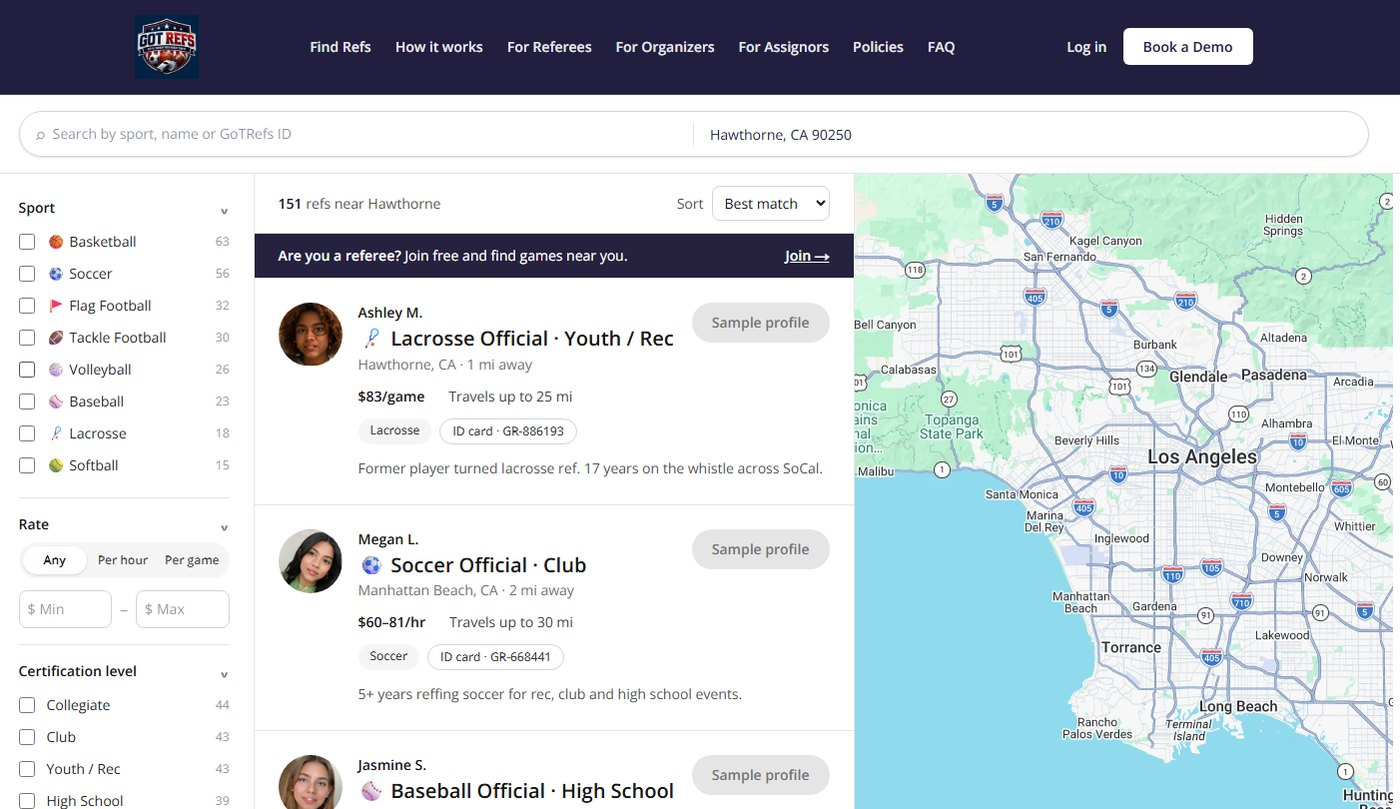
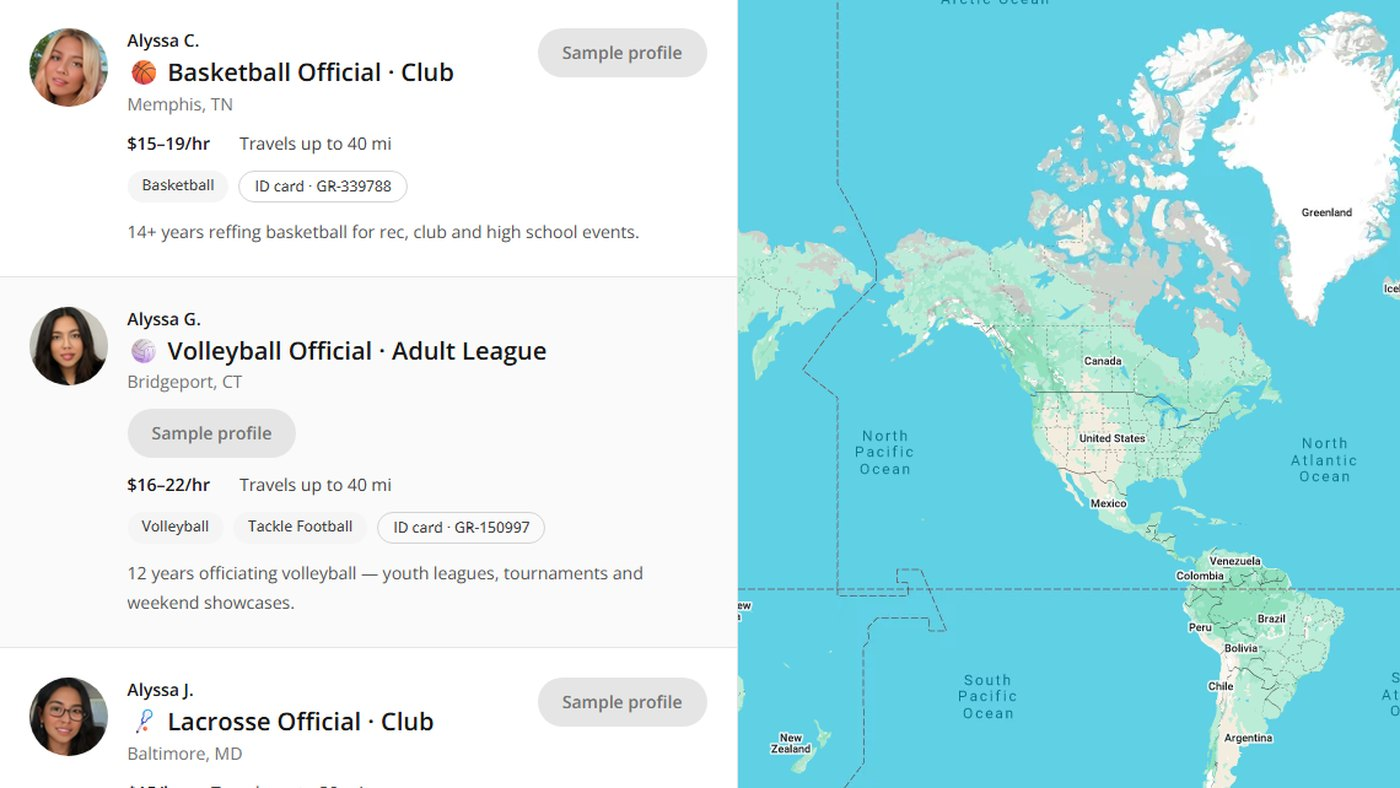
Find Refs map: draw price pins as HTML overlays; new home screenshot
- Pins are now drawn with google.maps.OverlayView (core maps library)
  instead of google.maps.Marker, which still wasn't rendering live
- With no location searched, the map frames the continental US instead
  of fitting Alaska/Hawaii (which zoomed out to the whole hemisphere)
- Home 'Find Refs Now' screenshot updated to the nationwide 5-30 data

Claude-Session: https://claude.ai/code/session_01AtsqxzZ6pvwJ2AtERcyaMA

diff --git a/web/src/components/find-refs/RefFinderMap.tsx b/web/src/components/find-refs/RefFinderMap.tsx
@@ -10,9 +10,76 @@ export type RefMapPin = {
   coords: { lat: number; lng: number };
 };
 
-const DEFAULT_CENTER = { lat: 33.95, lng: -118.25 };
+/** Continental US — the default view when no location is searched. */
+const LOWER_48 = { north: 49.5, south: 24.4, west: -125, east: -66.9 };
 
-/** Airbnb-style price pins for refs on Google Maps. */
+type PinOverlay = google.maps.OverlayView & {
+  setActive: (active: boolean) => void;
+};
+
+/**
+ * Airbnb-style price pills drawn as plain HTML on a Google Maps OverlayView.
+ * Uses only the core "maps" library, so it doesn't depend on google.maps.Marker.
+ */
+function createPinOverlay(
+  pin: RefMapPin,
+  active: boolean,
+  onClick: (id: string) => void
+): PinOverlay {
+  class Pin extends google.maps.OverlayView {
+    private el: HTMLButtonElement | null = null;
+    private isActive = active;
+
+    onAdd() {
+      const el = document.createElement("button");
+      el.type = "button";
+      el.textContent = pin.label;
+      el.title = pin.title;
+      el.setAttribute("aria-label", `${pin.title}, ${pin.label}`);
+      el.style.cssText =
+        "position:absolute;transform:translate(-50%,-50%);padding:4px 9px;border-radius:999px;" +
+        "font:700 12px/1.2 system-ui,sans-serif;white-space:nowrap;cursor:pointer;" +
+        "box-shadow:0 1px 4px rgba(0,0,0,.28);border:1px solid #d4d4d4;transition:transform .12s;";
+      el.addEventListener("click", (event) => {
+        event.stopPropagation();
+        onClick(pin.id);
+      });
+      el.addEventListener("mouseenter", () => (el.style.transform = "translate(-50%,-50%) scale(1.08)"));
+      el.addEventListener("mouseleave", () => (el.style.transform = "translate(-50%,-50%)"));
+      this.el = el;
+      this.paint();
+      this.getPanes()?.overlayMouseTarget.appendChild(el);
+    }
+
+    draw() {
+      const projection = this.getProjection();
+      if (!projection || !this.el) return;
+      const point = projection.fromLatLngToDivPixel(new google.maps.LatLng(pin.coords));
+      if (!point) return;
+      this.el.style.left = `${point.x}px`;
+      this.el.style.top = `${point.y}px`;
+    }
+
+    onRemove() {
+      this.el?.remove();
+      this.el = null;
+    }
+
+    setActive(next: boolean) {
+      this.isActive = next;
+      this.paint();
+    }
+
+    private paint() {
+      if (!this.el) return;
+      this.el.style.background = this.isActive ? "#111827" : "#ffffff";
+      this.el.style.color = this.isActive ? "#ffffff" : "#111827";
+      this.el.style.zIndex = this.isActive ? "1000" : "1";
+    }
+  }
+  return new Pin();
+}
+
 export function RefFinderMap({
   pins,
   selectedId,
@@ -28,10 +95,15 @@ export function RefFinderMap({
 }) {
   const mapElRef = useRef<HTMLDivElement>(null);
   const mapRef = useRef<google.maps.Map | null>(null);
-  const markersRef = useRef<google.maps.Marker[]>([]);
+  const overlaysRef = useRef<Map<string, PinOverlay>>(new Map());
   const fittedKeyRef = useRef<string>("");
+  const onSelectRef = useRef(onSelect);
   const [ready, setReady] = useState(false);
   const [error, setError] = useState<string | null>(null);
+
+  useEffect(() => {
+    onSelectRef.current = onSelect;
+  }, [onSelect]);
 
   useEffect(() => {
     if (!isGoogleMapsConfigured()) return;
@@ -41,13 +113,14 @@ export function RefFinderMap({
         if (cancelled || !mapElRef.current) return;
         if (!mapRef.current) {
           mapRef.current = new google.maps.Map(mapElRef.current, {
-            center: DEFAULT_CENTER,
-            zoom: 9,
+            center: { lat: 39.5, lng: -98.35 },
+            zoom: 4,
             mapTypeControl: false,
             streetViewControl: false,
             fullscreenControl: false,
             clickableIcons: false,
           });
+          mapRef.current.fitBounds(LOWER_48, 0);
         }
         setReady(true);
       })
@@ -57,7 +130,7 @@ export function RefFinderMap({
     };
   }, []);
 
-  // Re-fit only when the set of results or the searched place changes, not on selection.
+  // Re-fit only when the searched place or the result set changes (not on hover/selection).
   useEffect(() => {
     if (!ready || !mapRef.current) return;
     const map = mapRef.current;
@@ -67,44 +140,61 @@ export function RefFinderMap({
     if (center) {
       map.panTo(center);
       map.setZoom(10);
-    } else if (pins.length > 0) {
+      return;
+    }
+    // Without a searched place, frame the lower 48 (Alaska/Hawaii pins stay reachable by panning).
+    const mainland = pins.filter(
+      (p) =>
+        p.coords.lat <= LOWER_48.north &&
+        p.coords.lat >= LOWER_48.south &&
+        p.coords.lng >= LOWER_48.west &&
+        p.coords.lng <= LOWER_48.east
+    );
+    if (mainland.length >= 2) {
       const bounds = new google.maps.LatLngBounds();
-      pins.forEach((p) => bounds.extend(p.coords));
-      map.fitBounds(bounds, 40);
+      mainland.forEach((p) => bounds.extend(p.coords));
+      map.fitBounds(bounds, 32);
+    } else if (pins.length === 1) {
+      map.panTo(pins[0].coords);
+      map.setZoom(10);
+    } else {
+      map.fitBounds(LOWER_48, 0);
     }
   }, [ready, pins, center]);
 
+  // Add/remove pins when results change.
   useEffect(() => {
     if (!ready || !mapRef.current) return;
     const map = mapRef.current;
-    markersRef.current.forEach((m) => m.setMap(null));
-    markersRef.current = pins.map((pin) => {
-      const active = pin.id === selectedId;
-      const marker = new google.maps.Marker({
-        map,
-        position: pin.coords,
-        title: pin.title,
-        zIndex: active ? 1000 : undefined,
-        label: {
-          text: pin.label,
-          color: active ? "#ffffff" : "#111827",
-          fontSize: "12px",
-          fontWeight: "700",
-        },
-        icon: {
-          path: "M -26 -13 L 26 -13 Q 32 -13 32 -7 L 32 7 Q 32 13 26 13 L -26 13 Q -32 13 -32 7 L -32 -7 Q -32 -13 -26 -13 Z",
-          fillColor: active ? "#111827" : "#ffffff",
-          fillOpacity: 1,
-          strokeColor: active ? "#111827" : "#d4d4d4",
-          strokeWeight: 1,
-          scale: 1,
-          labelOrigin: new google.maps.Point(0, 1),
-        },
-      });
-      marker.addListener("click", () => onSelect?.(pin.id));
-      return marker;
-    });
-  }, [ready, pins, selectedId, onSelect]);
+    const overlays = overlaysRef.current;
+    const wanted = new Set(pins.map((p) => p.id));
+    for (const [id, overlay] of overlays) {
+      if (!wanted.has(id)) {
+        overlay.setMap(null);
+        overlays.delete(id);
+      }
+    }
+    for (const pin of pins) {
+      if (overlays.has(pin.id)) continue;
+      const overlay = createPinOverlay(pin, false, (id) => onSelectRef.current?.(id));
+      overlay.setMap(map);
+      overlays.set(pin.id, overlay);
+    }
+  }, [ready, pins]);
+
+  // Highlight the selected / hovered ref.
+  useEffect(() => {
+    for (const [id, overlay] of overlaysRef.current) overlay.setActive(id === selectedId);
+  }, [selectedId, pins, ready]);
+
+  // Clean up on unmount.
+  useEffect(() => {
+    const overlays = overlaysRef.current;
+    return () => {
+      for (const overlay of overlays.values()) overlay.setMap(null);
+      overlays.clear();
+    };
+  }, []);
 
   if (!isGoogleMapsConfigured() || error) {
     return (

diff --git a/web/src/components/marketing/FindRefsNowSection.tsx b/web/src/components/marketing/FindRefsNowSection.tsx
@@ -39,9 +39,9 @@ export function FindRefsNowSection() {
             src="/marketing/find-refs-screenshot.jpg"
             alt="The GoTRefs Find Refs page: filters, referee listings and a map"
             width={1400}
-            height={809}
+            height={788}
             loading="lazy"
-            className="min-h-0 w-full flex-1 object-cover object-[38%_top] lg:object-left-top transition duration-300 group-hover:scale-[1.01]"
+            className="min-h-0 w-full flex-1 object-cover object-left-top transition duration-300 group-hover:scale-[1.01]"
           />
         </Link>
       </div>
